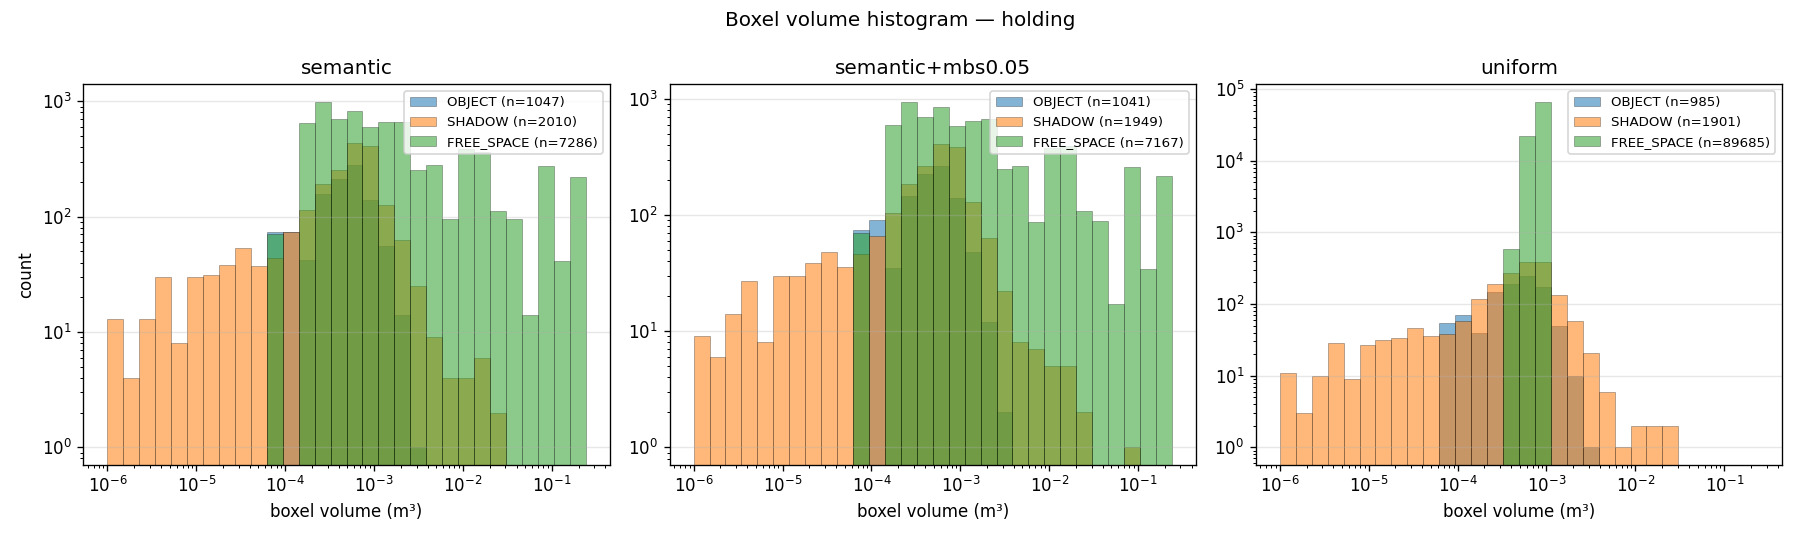
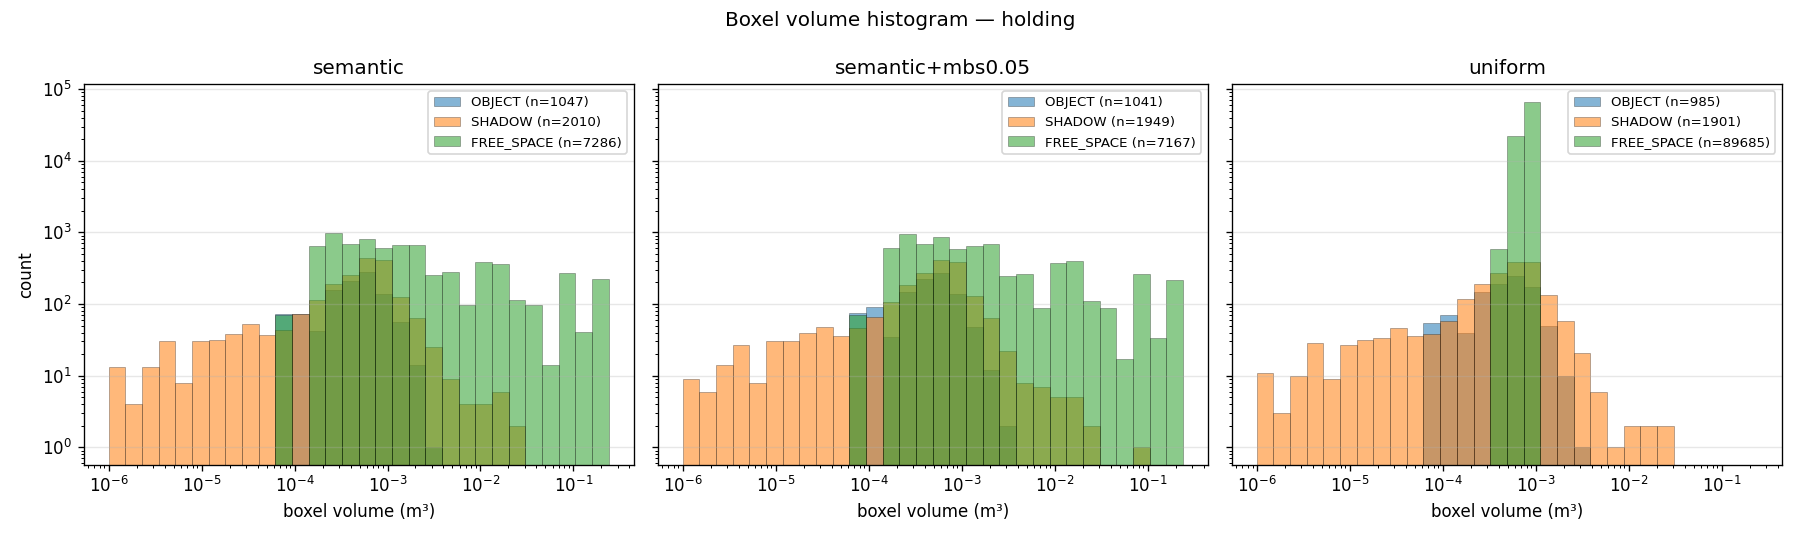
eval_plotter: drop low-interest line plots; shared y/x on multi-panel figs
Drop two per-goal line plots that the eval chapter doesn't use:
- sense_action_count_vs_n_occluders__*.png (3 files)
- plan_count_vs_n_occluders__*.png (3 files)
plan_count_distribution.png (the 3x3 (goal, variant) histogram) and
n_sense_actions in the timing_summary stay untouched; only the
per-goal line plot calls in main() are removed.

Restore shared axes across multi-panel figures so adjacent panels
compare on the same scale:
- boxel_volume_histogram: add sharey=True (log-y from #99 polish
  already compresses the 10^0..10^5 range across panels).
- boxel_evolution_per_replan: add sharex=True, sharey=True (reverts
  the per-panel y experiment from b27cbff; the size gap between
  uniform's ~1300 free-space line and semantic's ~30 is the point
  of the figure).
- solved_vs_time: add sharex=True alongside the existing sharey so
  the cumulative-solve curves align on both axes.
plot_plan_count_distribution already shares both axes.

diff --git a/eval_plotter.py b/eval_plotter.py
@@ -640,13 +640,14 @@ def plot_boxel_volume_histogram(
         hi = lo + 1.0
     bins = [10 ** (lo + (hi - lo) * i / 30) for i in range(31)]
 
-    # Per-panel y-axis: uniform's ~50k-count free-space spike used to
-    # dominate a shared-y plot and flatten the semantic distribution
-    # visually.  sharex is preserved so the log-volume bins align
-    # across panels.
+    # Shared X and Y across the per-variant panels so the reader
+    # compares OBJECT / SHADOW / FREE_SPACE distributions on the same
+    # log-volume bins and the same log-count scale.  With audit-#99
+    # log-y the uniform free-space spike (~10^5) and the semantic
+    # tails (~10^0) both fit comfortably in one shared range.
     fig, axes = plt.subplots(1, len(variants),
                              figsize=(5 * len(variants), 4.5),
-                             sharex=True)
+                             sharex=True, sharey=True)
     if len(variants) == 1:
         axes = [axes]
     for ax, variant in zip(axes, variants):
@@ -743,15 +744,14 @@ def plot_boxel_evolution_per_replan(
                    "shadow": "SHADOW",
                    "free_space": "FREE_SPACE"}
 
-    # Audit #99 polish — drop sharey: uniform's free-space line at
-    # ~1300 boxels (stack) / ~330 (random-pairs) squashes the
-    # semantic/mbs0.05 panels (max ~30-50) into an unreadable strip
-    # at the bottom.  Per-panel y-axis lets each variant's evolution
-    # be visible at its own scale.
+    # Shared X and Y across the per-variant panels for cross-variant
+    # comparison.  Uniform's free-space line (~1300 stack / ~330
+    # random-pairs) sets the y-range; the semantic / mbs panels read
+    # along the bottom and the size gap is the point of the plot.
     fig, axes = plt.subplots(
         1, len(variants),
         figsize=(5 * len(variants), 4),
-        squeeze=False,
+        sharex=True, sharey=True, squeeze=False,
     )
     axes = axes[0]
     for ax, variant in zip(axes, variants):
@@ -1270,7 +1270,7 @@ def plot_solved_vs_time(grouped: Dict[tuple, tuple],
 
     fig, axes = plt.subplots(1, len(goals),
                               figsize=(5 * len(goals), 4.6),
-                              sharey=True)
+                              sharex=True, sharey=True)
     if len(goals) == 1:
         axes = [axes]
 
@@ -1936,21 +1936,10 @@ def main(argv=None) -> int:
             main_label_suffix=main_label_suffix,
             baseline_label_suffix=baseline_label_suffix,
         )
-        plot_metric(
-            group_metric(g_rows, series=series_key,
-                         metric="plan_count", success_only=True),
-            title=f"Plan count (replans) vs scene size (success-only){title_suffix}",
-            ylabel="mean plan_count",
-            out_path=out_dir / f"plan_count_vs_n_occluders{suffix}.png",
-            baseline_grouped=(group_metric(g_baseline, series=series_key,
-                                           metric="plan_count",
-                                           success_only=True)
-                              if g_baseline else None),
-            series_label=series_label,
-            xlabel=x_label,
-            main_label_suffix=main_label_suffix,
-            baseline_label_suffix=baseline_label_suffix,
-        )
+        # plan_count_vs_n_occluders dropped 2026-05-20 per user
+        # direction (low-interest metric; the per-(goal, variant)
+        # histogram in plan_count_distribution.png covers replan
+        # distribution at a finer grain).
         # Audit #73 TIER A plot 1: boxel-count breakdown (OBJECT /
         # SHADOW / FREE_SPACE stacked, semantic-vs-uniform side-by-
         # side).  Compactness pillar's headline figure.  No-op on
@@ -1989,29 +1978,8 @@ def main(argv=None) -> int:
             main_label_suffix=main_label_suffix,
             baseline_label_suffix=baseline_label_suffix,
         )
-        # Audit #73 TIER B plot 4: sense-action count vs n_occluders.
-        # Counts every sense executed (any outcome) across all
-        # replans, so include failed runs — they may still have done
-        # many senses before exiting (the audit body explicitly notes
-        # uniform vs semantic should show ~equal counts if the shadow
-        # set is identical; a divergence is itself a finding).  No-op
-        # on pre-#73-step-3(c) sweeps (n_sense_actions column absent).
-        plot_metric(
-            group_metric(g_rows, series=series_key,
-                         metric="n_sense_actions",
-                         success_only=False),
-            title=f"Sense-action count vs scene size{title_suffix}",
-            ylabel="mean n_sense_actions",
-            out_path=out_dir / f"sense_action_count_vs_n_occluders{suffix}.png",
-            baseline_grouped=(group_metric(g_baseline, series=series_key,
-                                           metric="n_sense_actions",
-                                           success_only=False)
-                              if g_baseline else None),
-            series_label=series_label,
-            xlabel=x_label,
-            main_label_suffix=main_label_suffix,
-            baseline_label_suffix=baseline_label_suffix,
-        )
+        # sense_action_count_vs_n_occluders dropped 2026-05-20 per
+        # user direction (low-interest metric for the eval chapter).
         # Audit #73 TIER A plot 3: boxel-volume histogram (semantic
         # vs uniform).  Heterogeneity proof — semantic shows a wide
         # spread, uniform a narrow spike near cell_size³.  Reads
